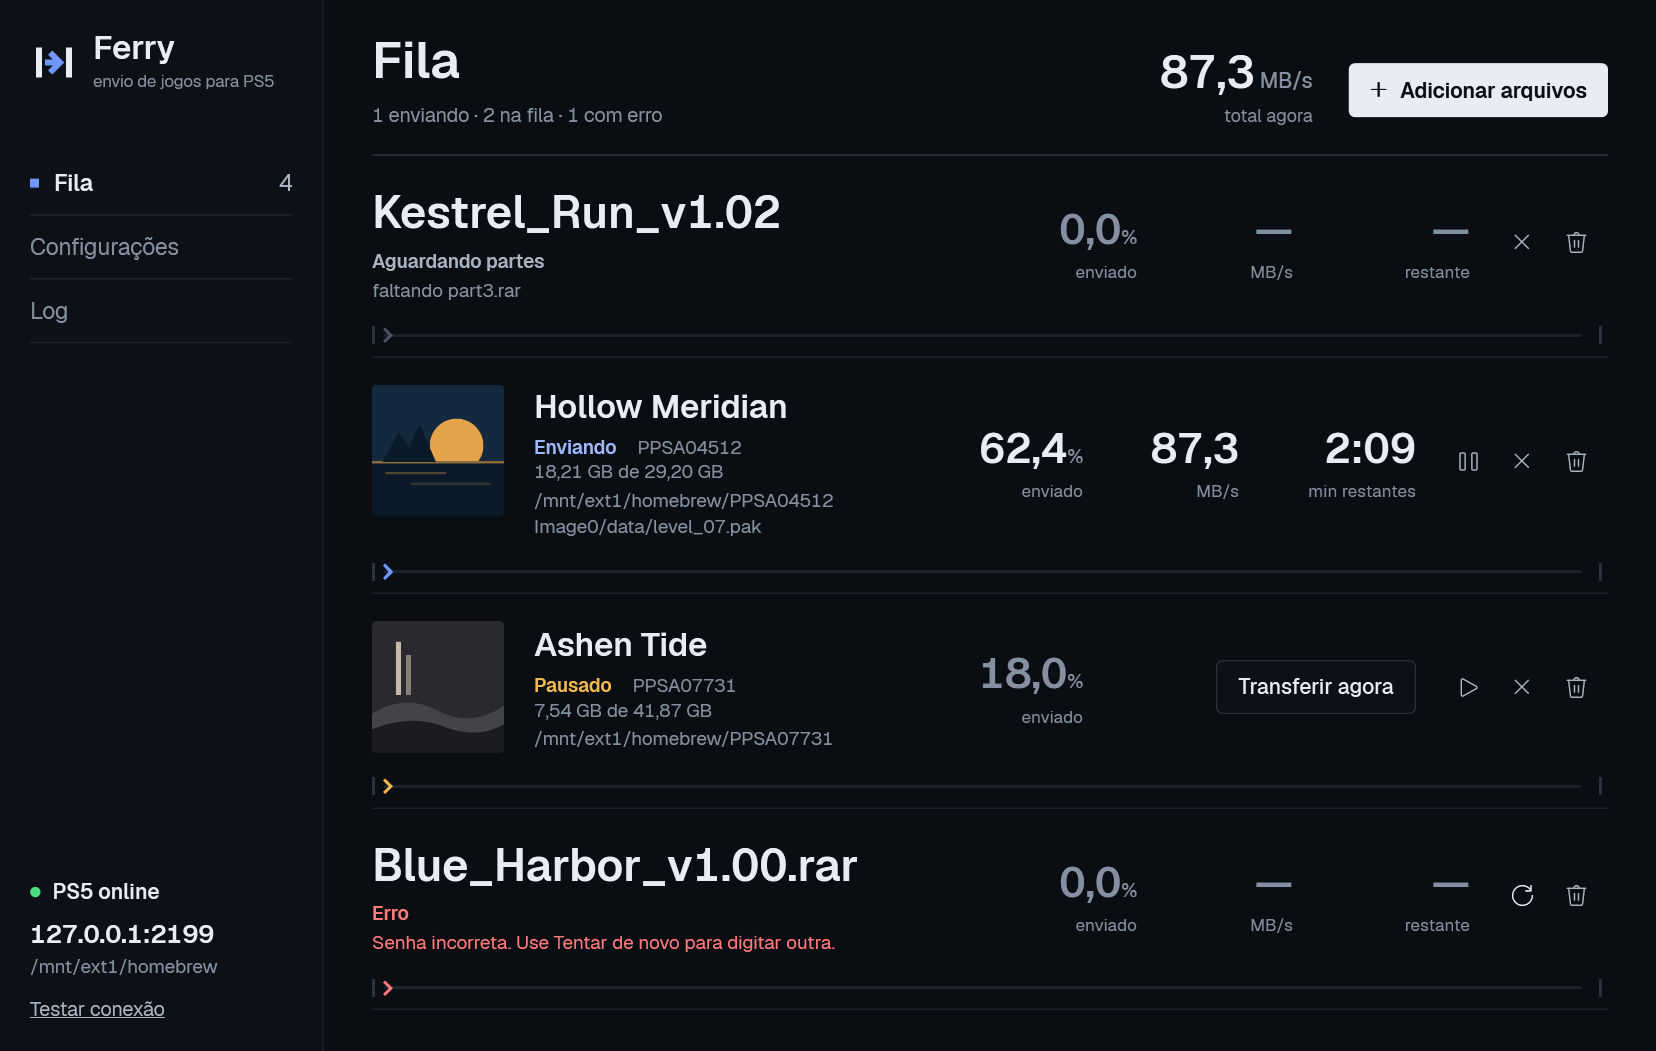
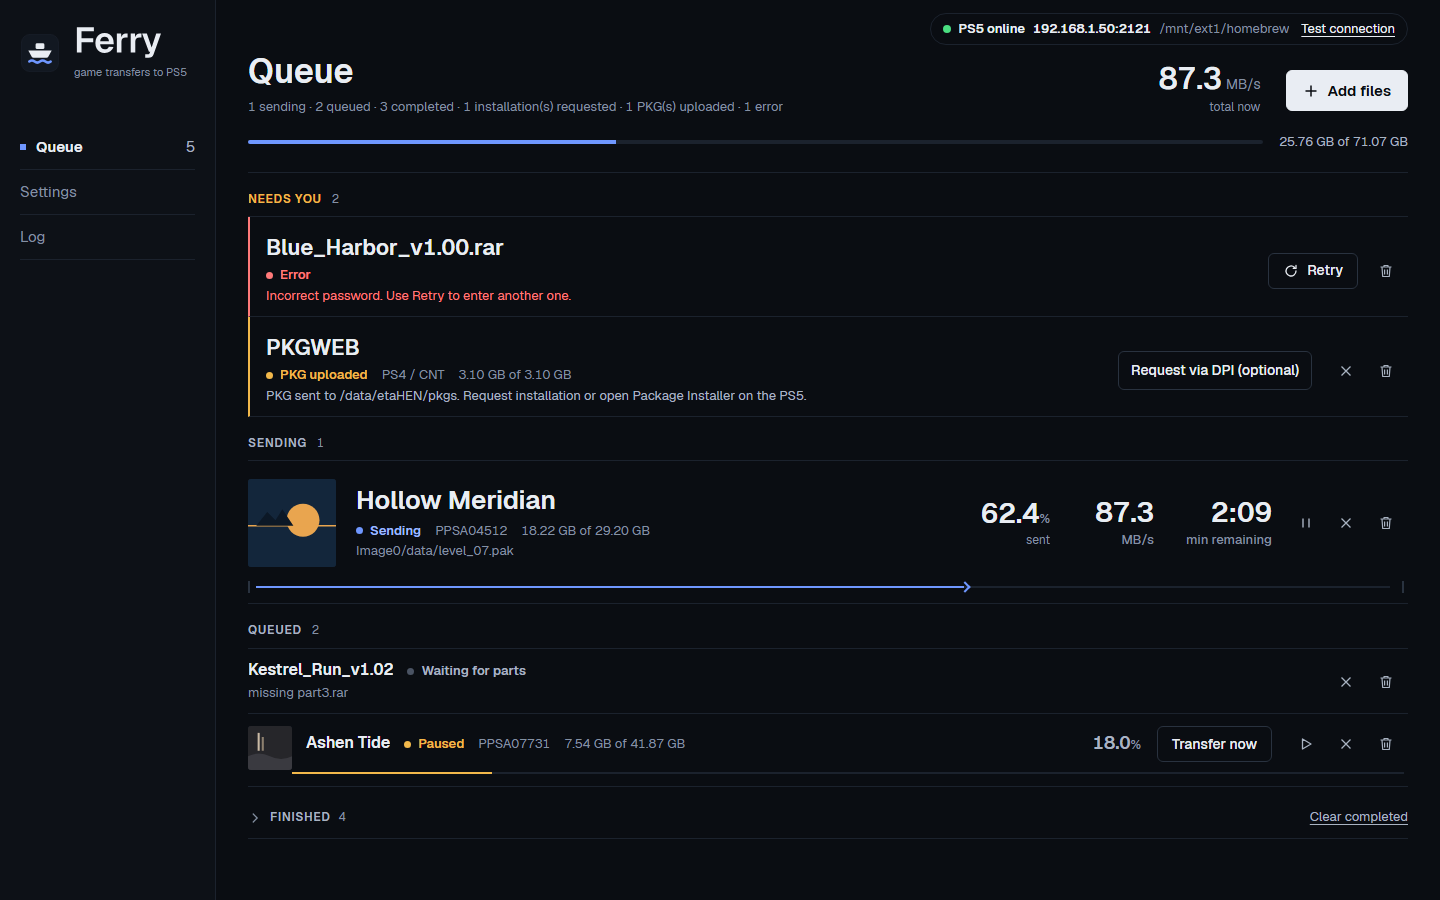
docs(readme): prints da interface atual com a marca nova (en e pt-BR)

diff --git a/README.pt-BR.md b/README.pt-BR.md
@@ -21,7 +21,7 @@
 
 <br>
 
-![Fila do Ferry](docs/screenshots/fila.png)
+![Fila do Ferry](docs/screenshots/fila.pt-BR.png)
 
 [![CI](https://github.com/bps2414/ferry/actions/workflows/ci.yml/badge.svg)](https://github.com/bps2414/ferry/actions/workflows/ci.yml)
 
